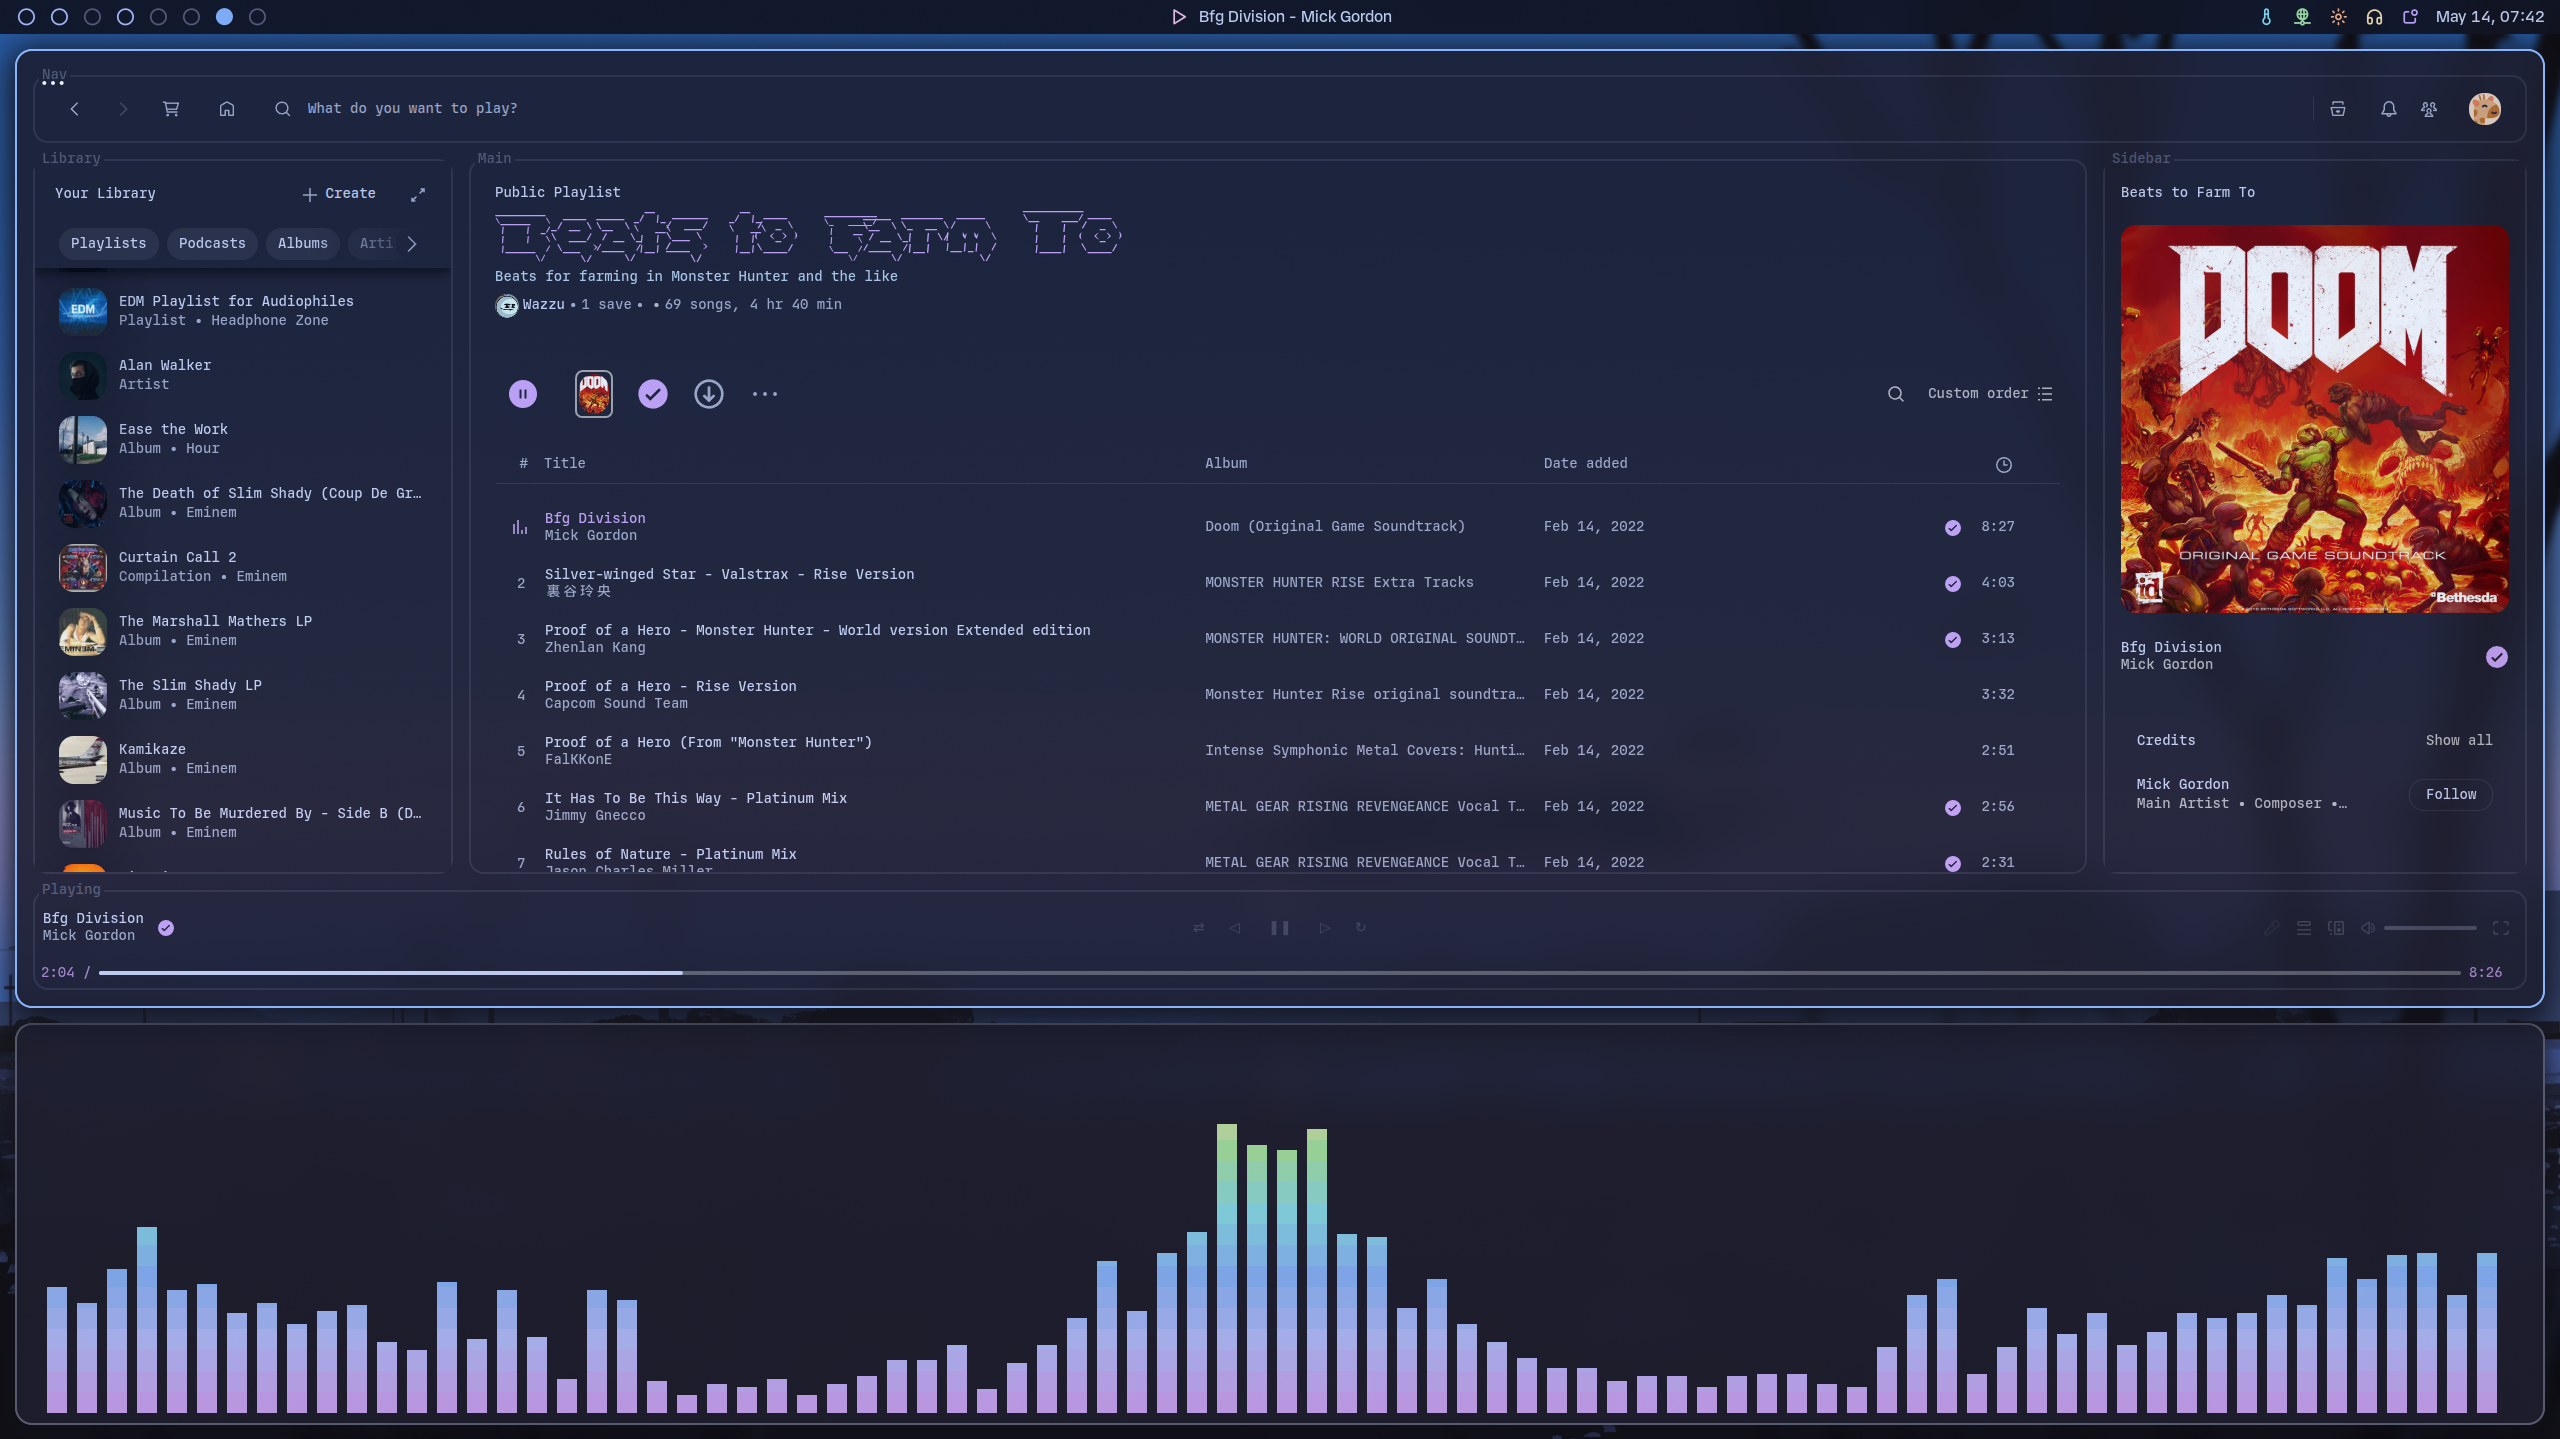
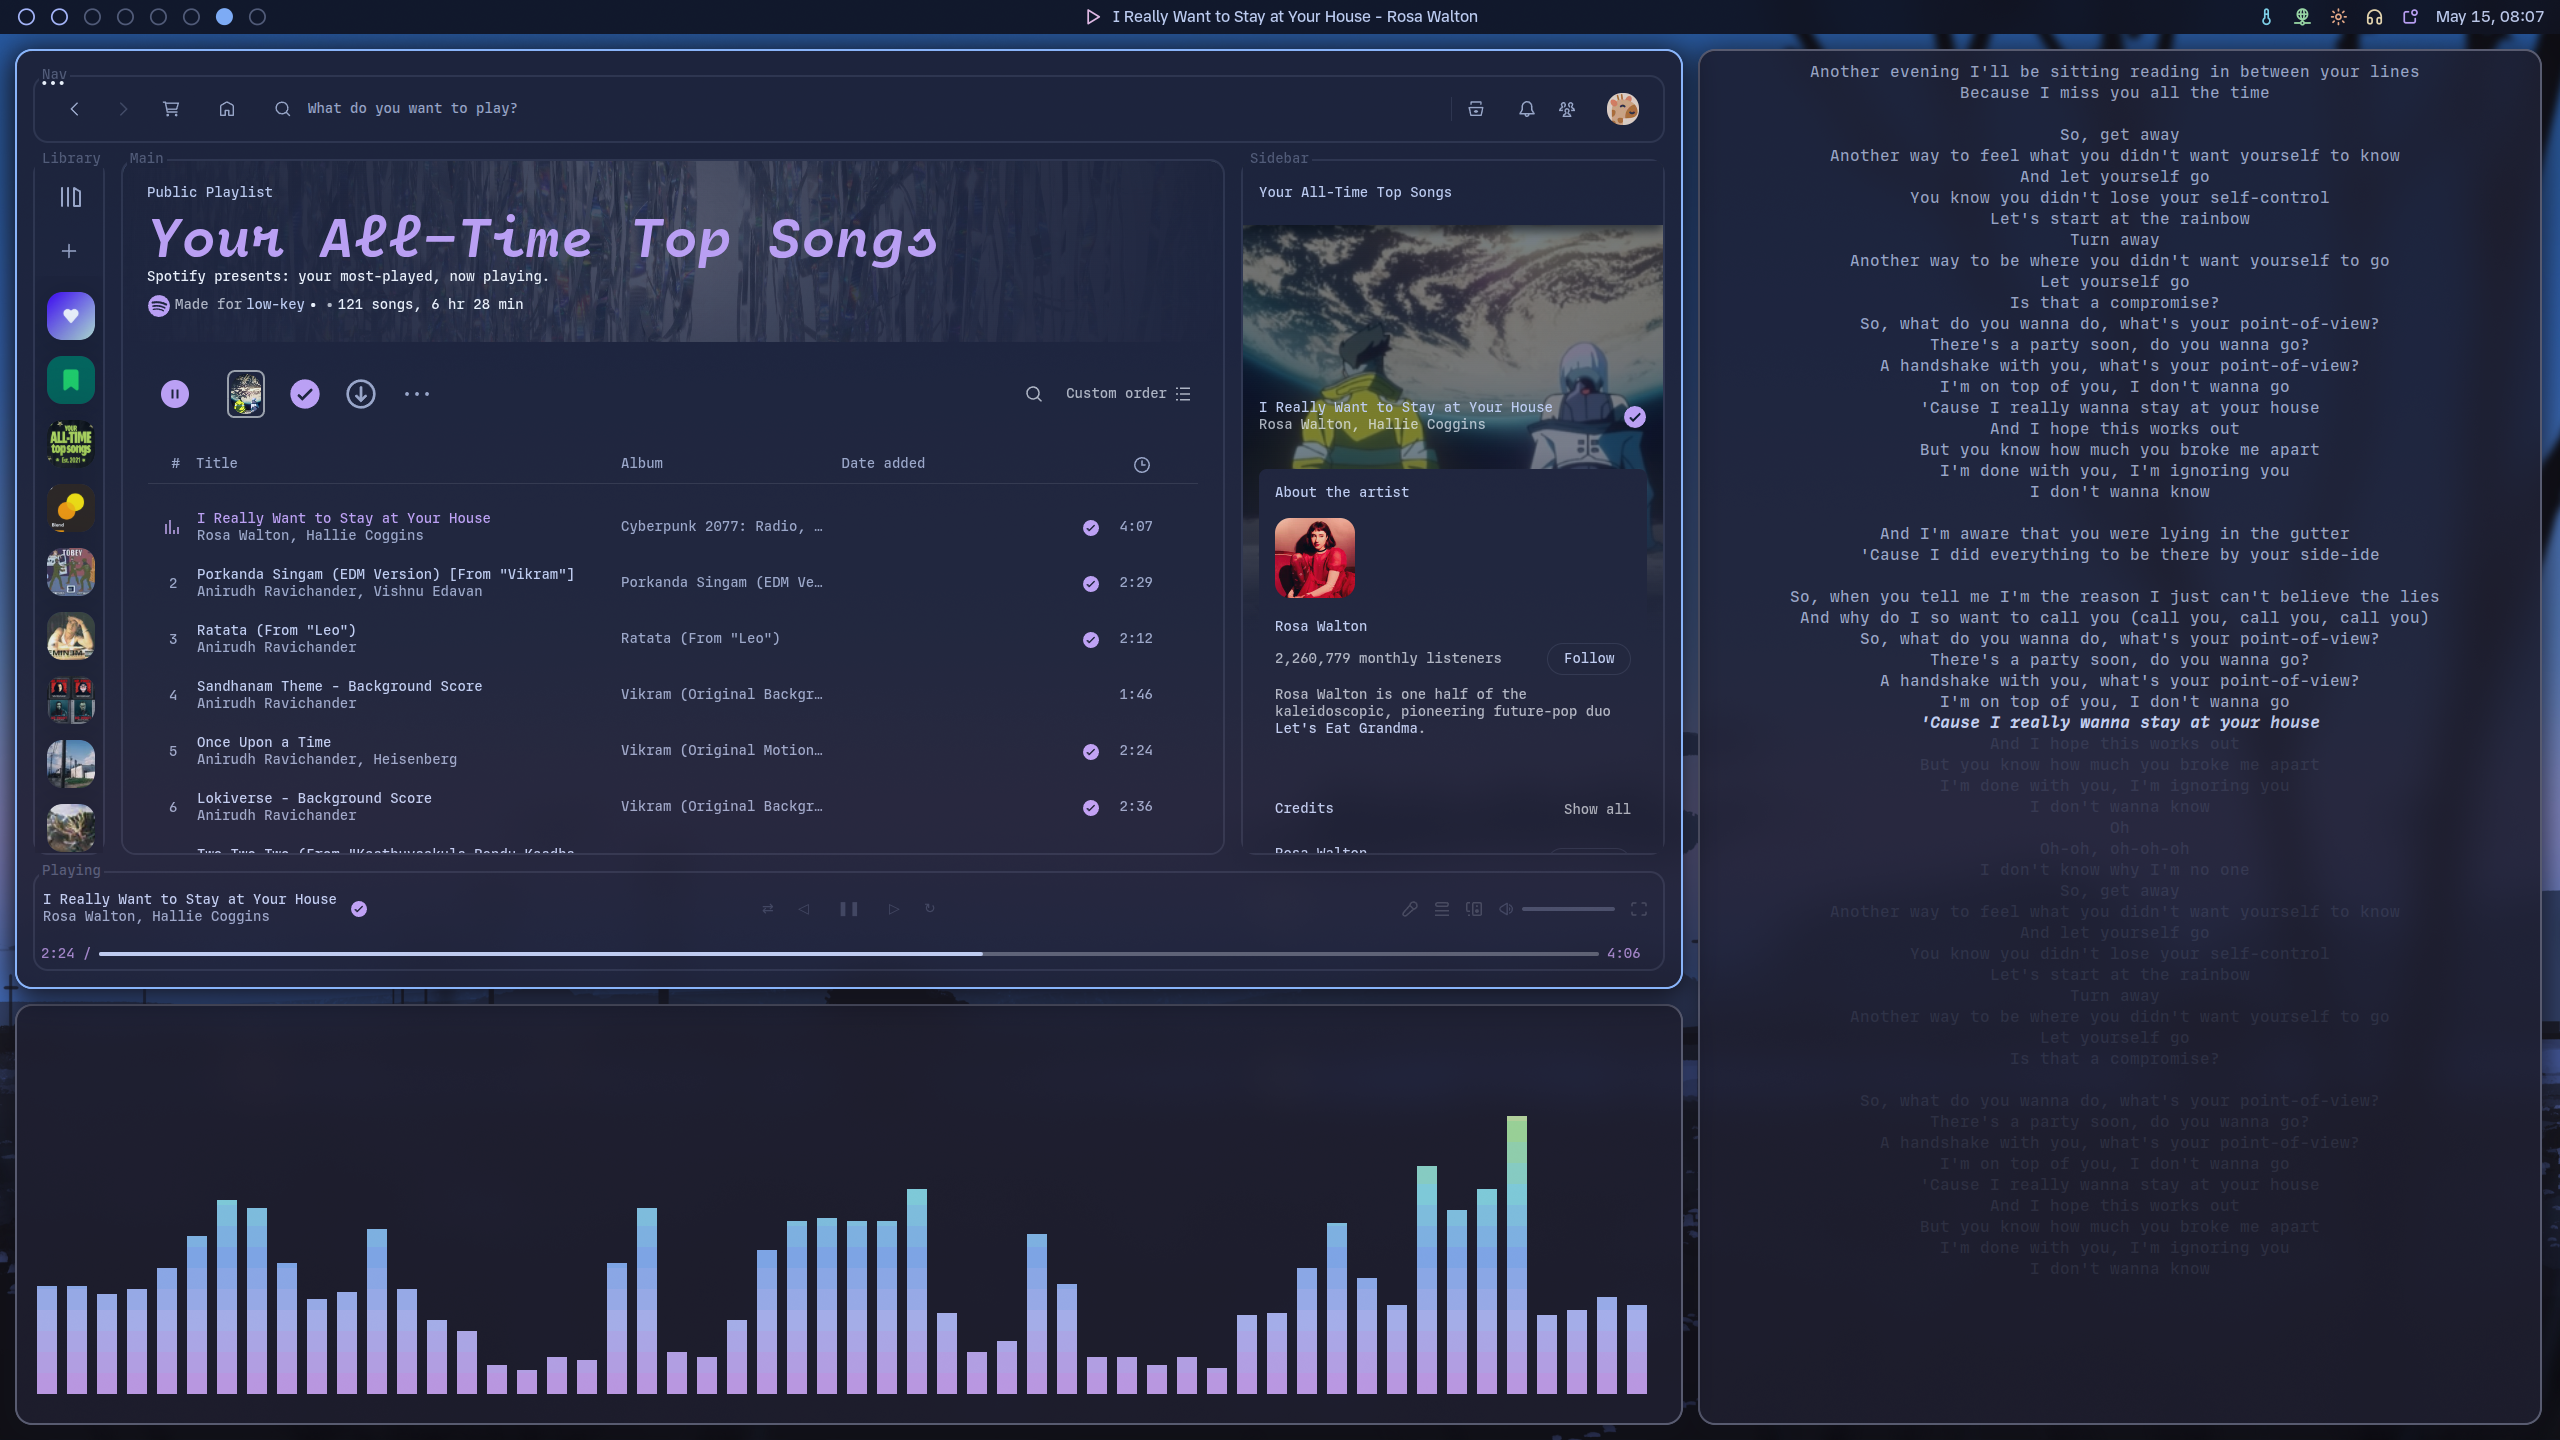
final set of images and corresponding links in readme

diff --git a/tranquil_in_lavender/readme.md b/tranquil_in_lavender/readme.md
@@ -52,6 +52,10 @@ Wallpapers used in this setup can be found in the [wallpapers](https://github.co
 
 ![Screenshot of an empty desktop showing the bar and the wallpaper](./images/clean.png)
 
+### Fetch
+
+![Screenshot of desktop with fetch](./images/fetch.png)
+
 ### Busy
 
 ![Screenshot of a desktop with multiple windows open](./images/busy.png)
@@ -59,6 +63,14 @@ Wallpapers used in this setup can be found in the [wallpapers](https://github.co
 ### Browser
 
 ![Screenshot of a desktop with the browser open the home assistant's dashboard](./images/browser.png)
+
+### Communications Central
+
+![Screenshot of a desktop with Legcord using the System24 theme and senpai](./images/chat.png)
+
+### Documents and Notes
+
+![Screenshot of a desktop with Zathura and Obsidian](./images/docs.png)
 
 ### Music
 
